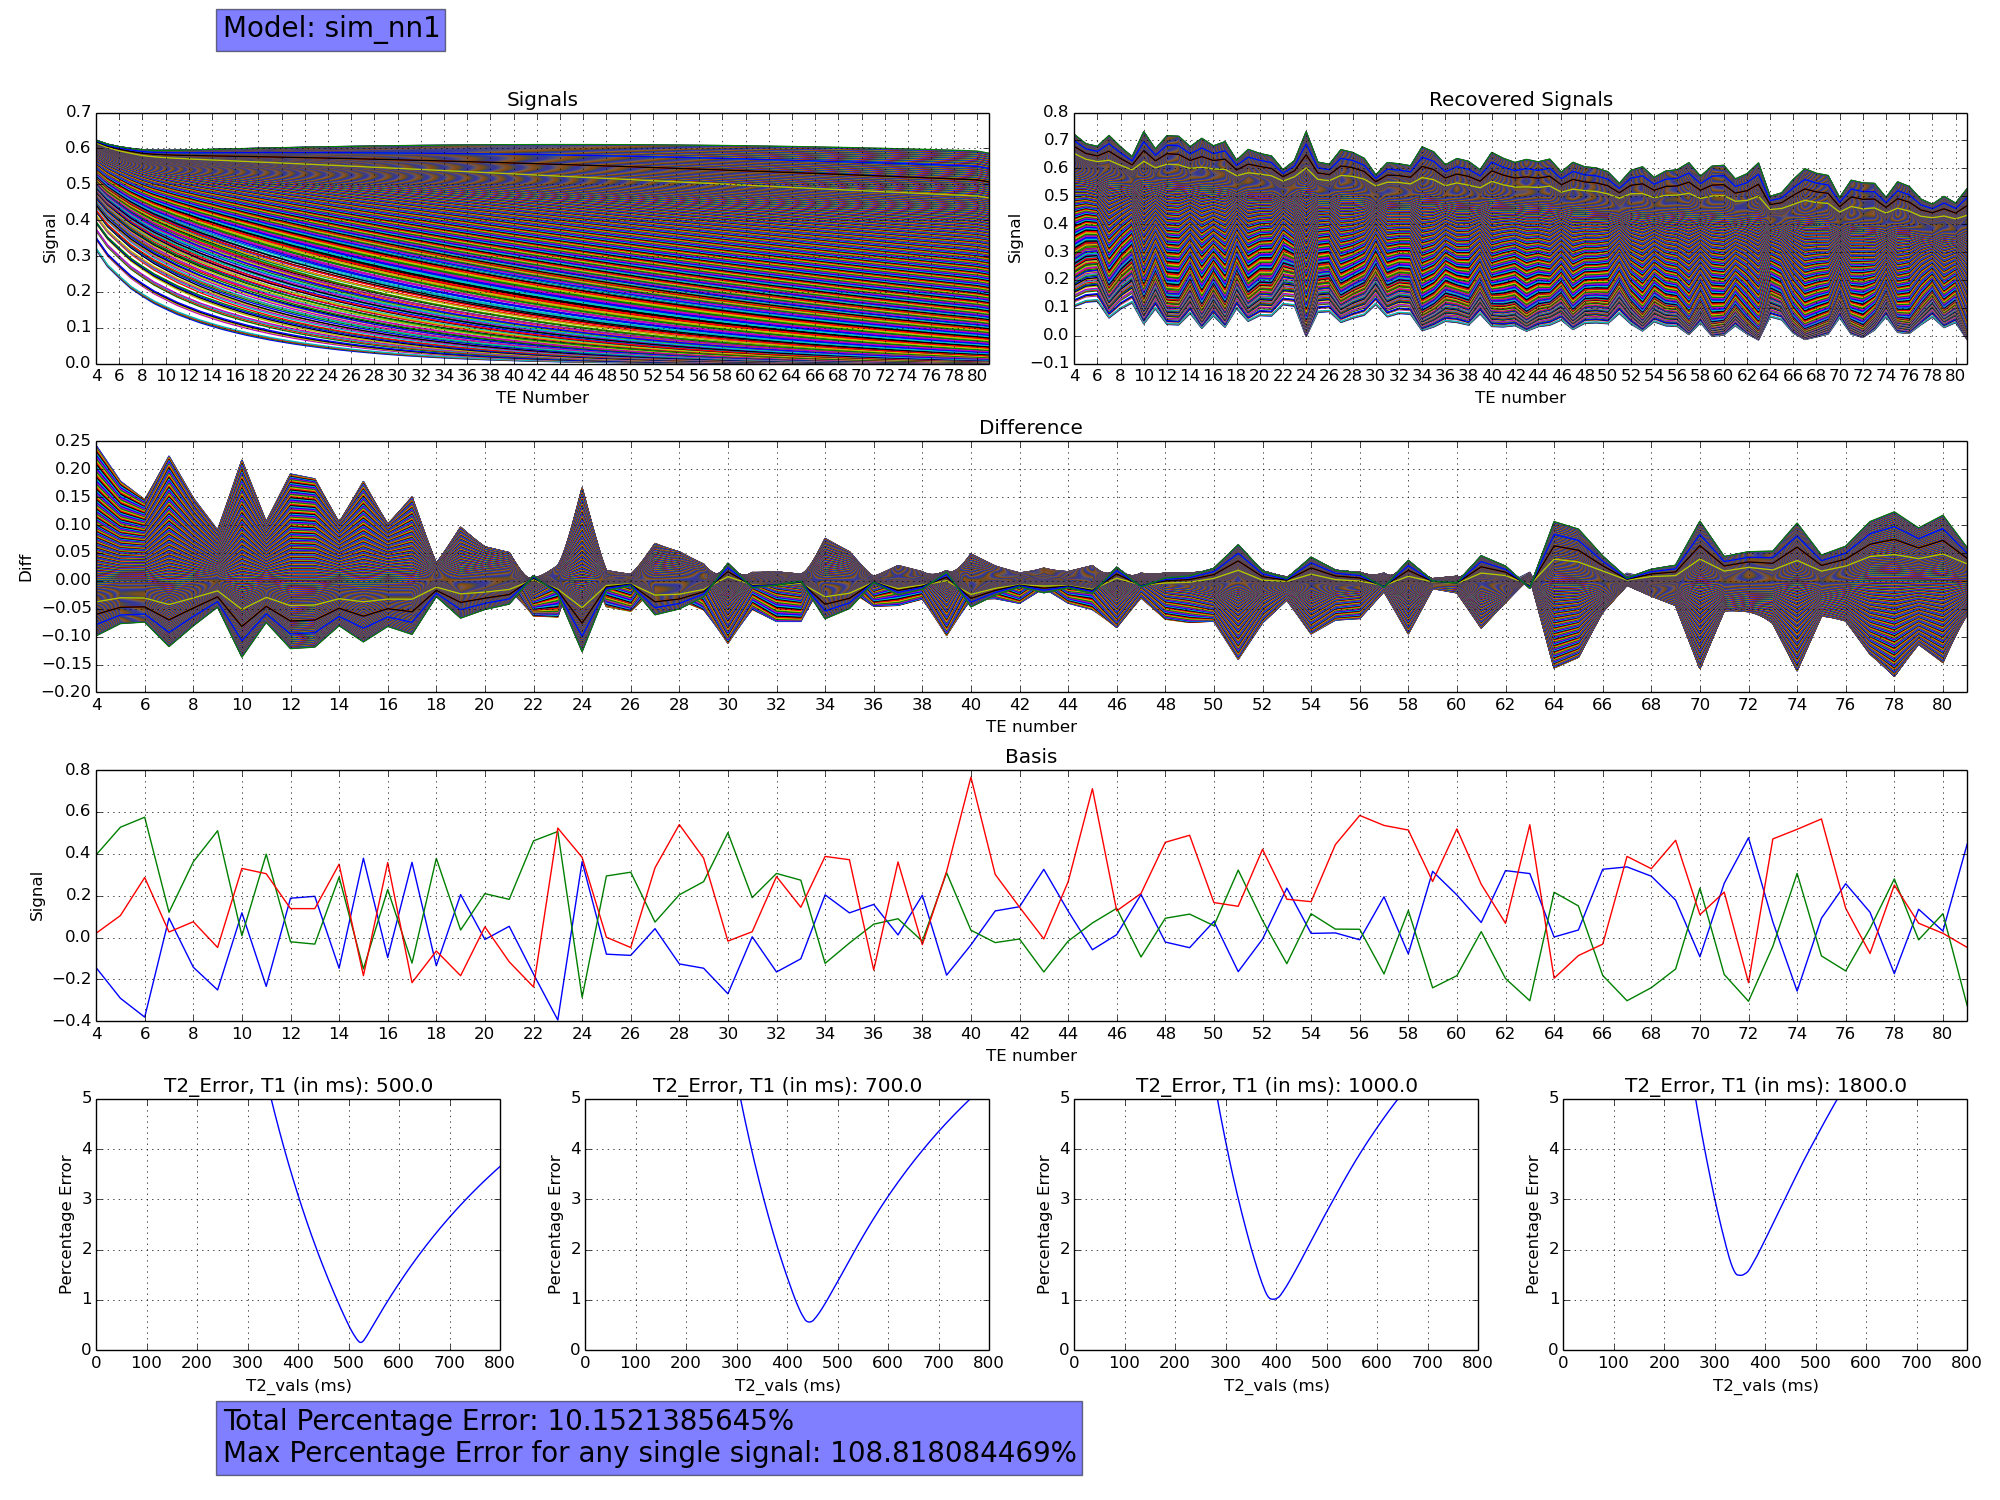
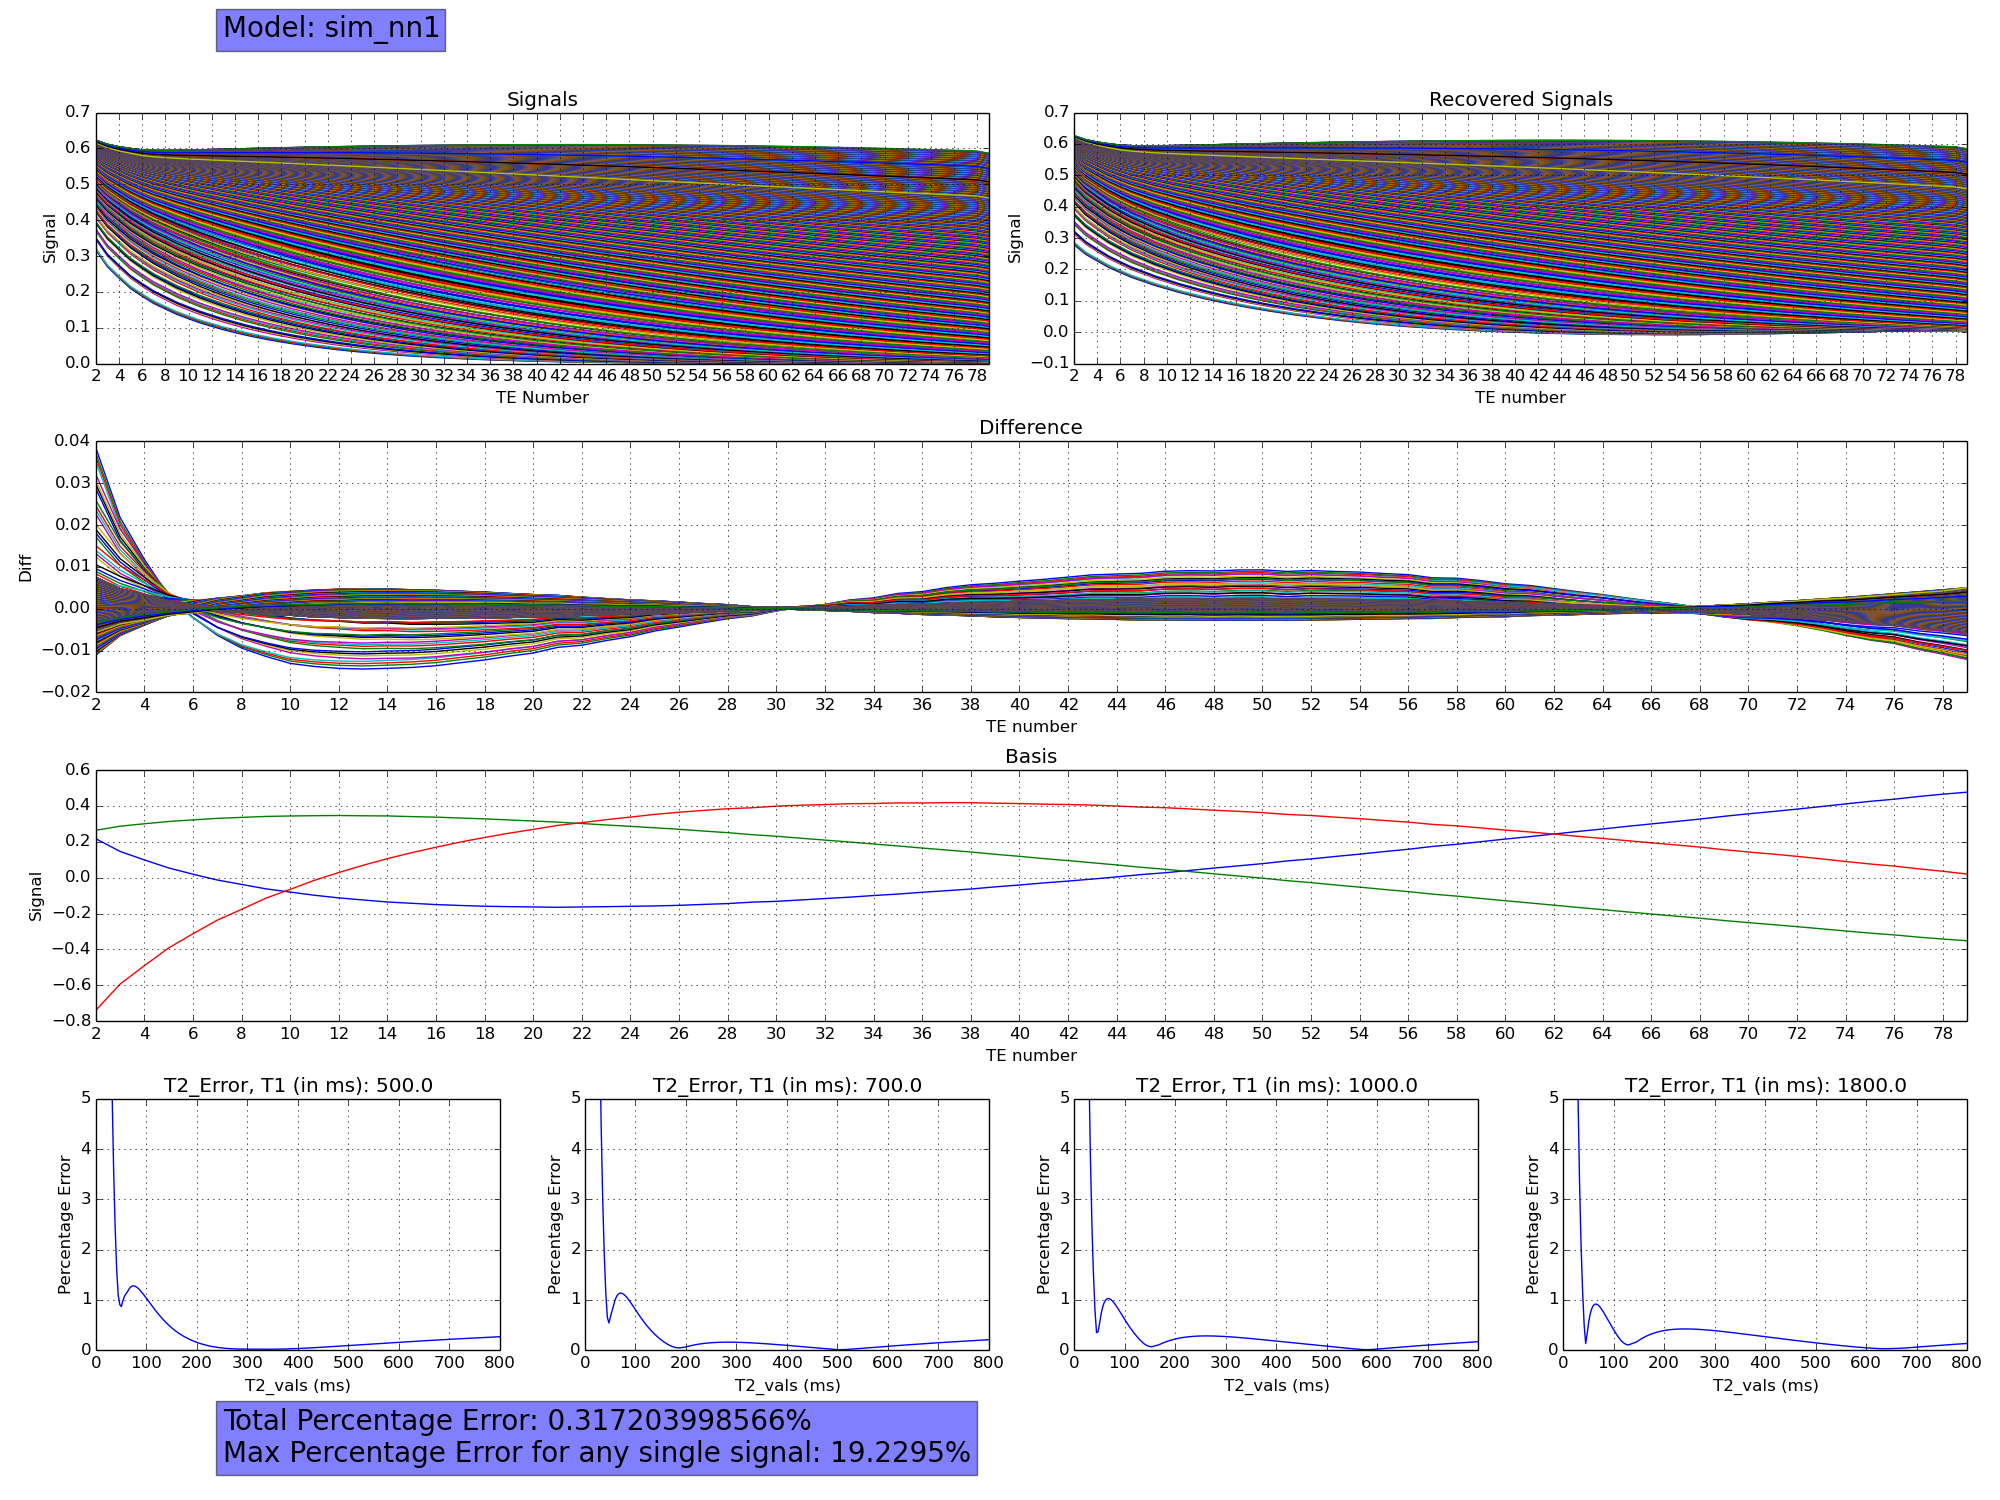
nn1-plots

diff --git a/src/models.py b/src/models.py
@@ -120,8 +120,11 @@ def nn1(X, k=None):
   nn = NN_simple([X.shape[0], k, X.shape[0]])
   
   nn.load_theta('../saves/nn1_theta.npy')
-  c = nn.train(X, X, num_iter=1000000, alpha=1e-5, verbose=True)
-  nn.save_theta('../saves/nn1_theta.npy')
+  c = nn.train(X, X, num_iter=100, alpha=1e-6, verbose=True)
+  #nn.save_theta('../saves/nn1_theta.npy')
+  import matplotlib.pyplot as plt
+  plt.plot(c)
+  plt.show()
 
   a = nn.get_activation_layers(X)
   return nn.theta_lst[-1], a[-2], nn.theta_lst[-1] * a[-2]

diff --git a/src/gen_FSEmatrix.py b/src/gen_FSEmatrix.py
@@ -12,7 +12,7 @@ def gen_FSEmatrix(N, angles_rad, ETL, e2s, TE, T1vals, T2vals):
   T1 = np.sort(T1vals)
   T2 = np.sort(T2vals)
 
-  X = np.matrix(np.zeros((T, N * len(T1))))
+  X = np.matrix(np.zeros((T, N * len(T1))), dtype=np.complex64)
 
   c = 0
   total = N * len(T1)
